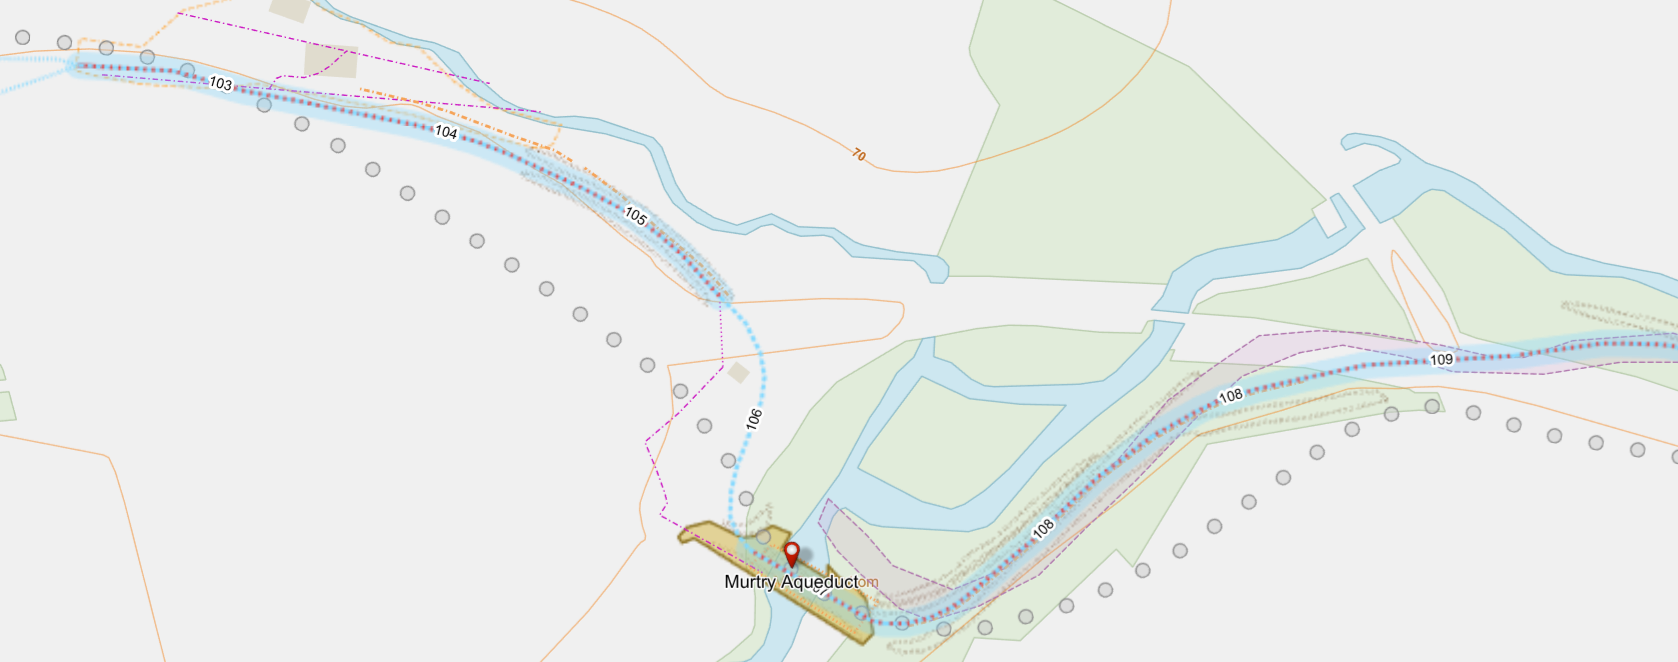
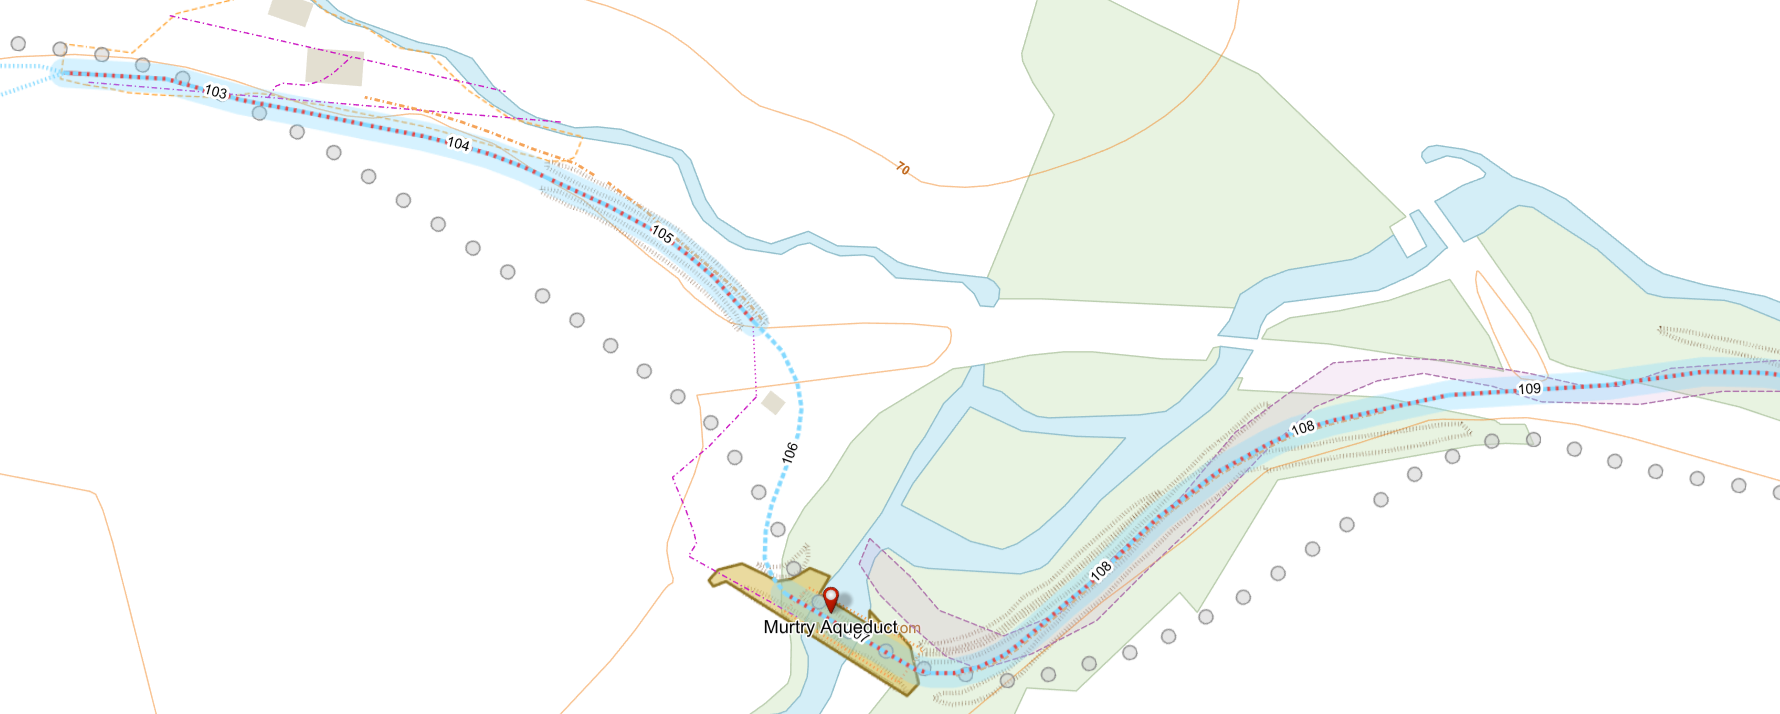
Make webmap backdrop as pure white to ease comparison

diff --git a/examples/D+S canal/webmap/web_map_viewer.html b/examples/D+S canal/webmap/web_map_viewer.html
@@ -17,7 +17,6 @@
             padding: 0;
             width: 100%;
             height: 100%;
-            background-color: #f0f0f0;
         }
         .ol-grayscale {
             filter: grayscale(100%);

diff --git a/web_map_viewer/web_map_viewer.html b/web_map_viewer/web_map_viewer.html
@@ -17,7 +17,6 @@
             padding: 0;
             width: 100%;
             height: 100%;
-            background-color: #f0f0f0;
         }
         .ol-grayscale {
             filter: grayscale(100%);
